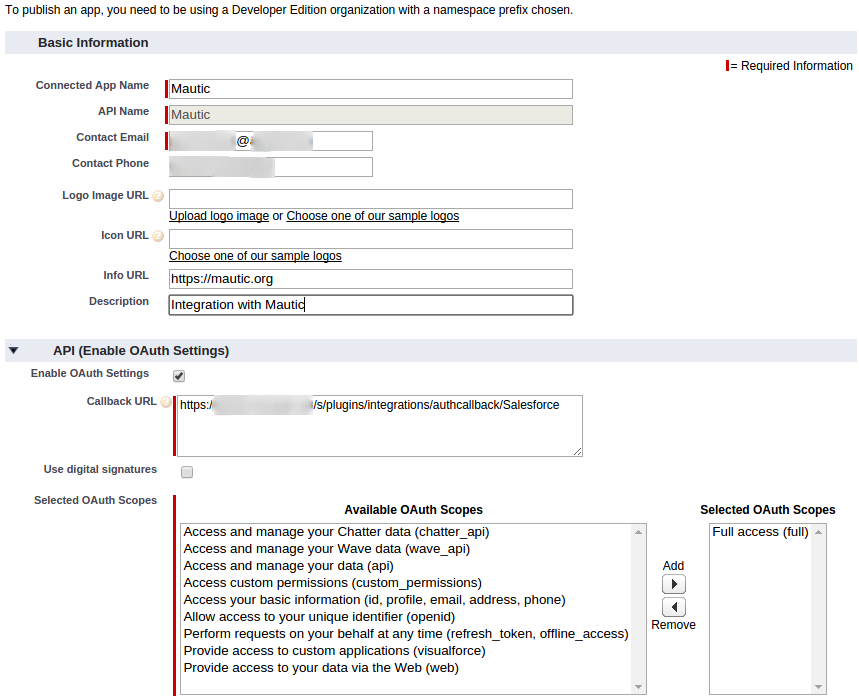
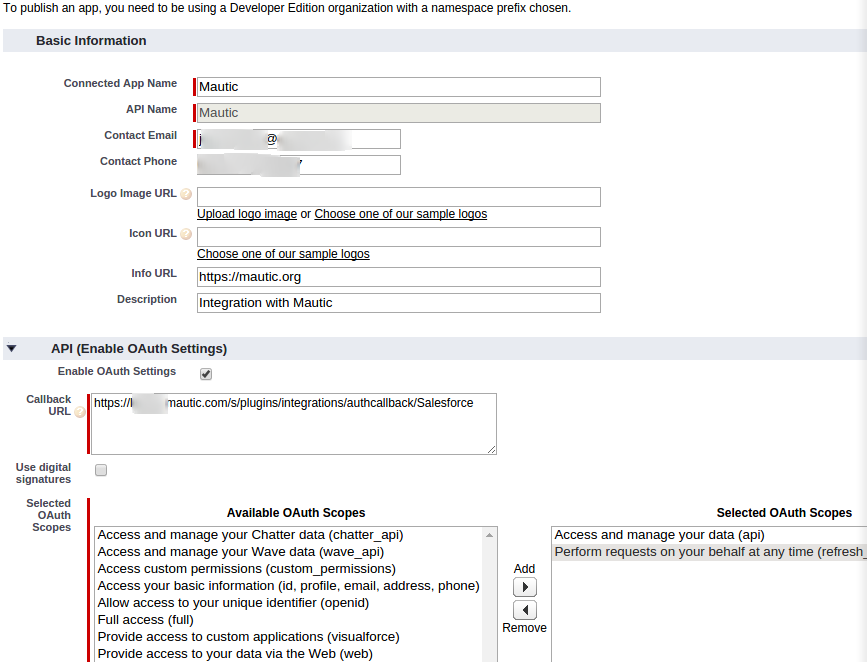
Salesforce docs finished

diff --git a/plugins/salesforce.md b/plugins/salesforce.md
@@ -16,10 +16,21 @@ Go to: *Setup* (tom right corner) / Build (bottom left corner) - Create / Apps /
 
 Create a new app like this:
 ![Salesforce CRM Create an App form](/plugins/media/plugins-salesforce-create-app-form.png "Salesforce CRM Create an App form")
+Make sure the Selcected OAuth Scopes are *Access and manage your fata (api)* and *Perform requests on your behalf at any time (refresh_token, offline_access)*.
 
 Copy the Consumer Key and Secret.
 
 ![Salesforce CRM Create an App keys](/plugins/media/plugins-salesforce-create-app-keys.png "Salesforce CRM Create an App keys")
 
-Insert the keys to the Mautic Salesforce plugin
+## Configure the Mautic Salesforce plugin
+
+Insert the keys to the Mautic Salesforce plugin and authorize it.
 ![Salesforce CRM Authorize](/plugins/media/plugins-salesforce-authorize.png "Salesforce CRM Authorize")
+
+Configure the [field mapping](/plugins/field_mapping.html).
+
+## Troubleshooting
+
+### Error: `The REST API is not enabled for this Organization.`
+
+This means the API is not turned on in your Salesforce account. [Read more](https://help.salesforce.com/apex/HTViewHelpDoc?id=admin_userperms.htm&language=en)

diff --git a/plugins/hubspot_crm.md b/plugins/hubspot_crm.md
@@ -14,9 +14,9 @@ Open the Hubspot Plugin configuration and paste the API key into the *Hubspot AP
 
 ![Hubspot CRM Plugin configuration](/plugins/media/plugins-hubspot-crm-configuration.png "Hubspot CRM Plugin configuration")
 
-In the Features tab is just *Push leads to this integration* checkbox and it is checked by default. At the *Lead Field Mapping* tab is the list of available Hubspot CRM Contact Fields. You have to select the Mautic Lead Field equivalent so each field will get the right value. You don't have to map every field. Map only those you want to push into the Hubspot CRM.
+In the Features tab is just *Push leads to this integration* checkbox and it is checked by default.
 
-![Hubspot CRM Plugin Lead Fiedl Mapping](/plugins/media/plugins-hubspot-crm-mapping.png "Hubspot CRM Plugin Lead Fiedl Mapping")
+Configure the [field mapping](/plugins/field_mapping.html).
 
 Save the plugin configuration.
 

diff --git a/plugins/field_mapping.md b/plugins/field_mapping.md
@@ -1,0 +1,5 @@
+# Field Mapping in a plugin integration
+
+At the *Lead Field Mapping* tab is the list of available fields from an integration. You have to select the Mautic Lead Field equivalent so each field will get the right value. You don't have to map every field. Map only those you want to push into the integration.
+
+![Integration Plugin Lead Field Mapping](/plugins/media/plugins-field-mapping.png "Integration Plugin Lead Field Mapping")
